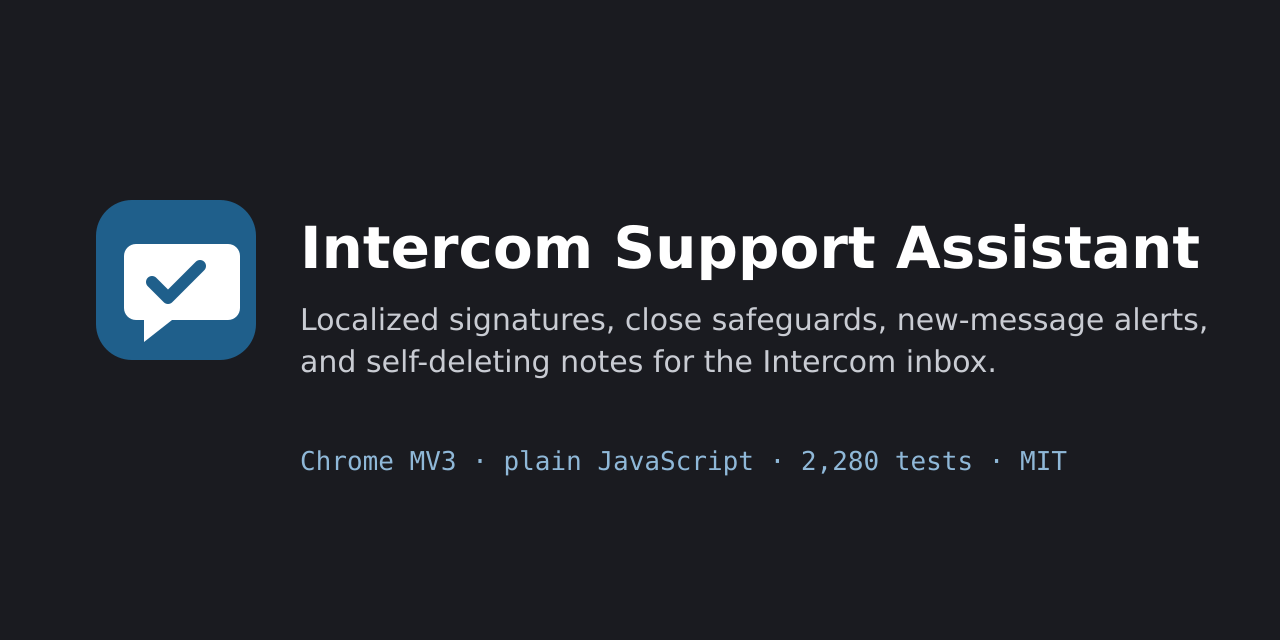
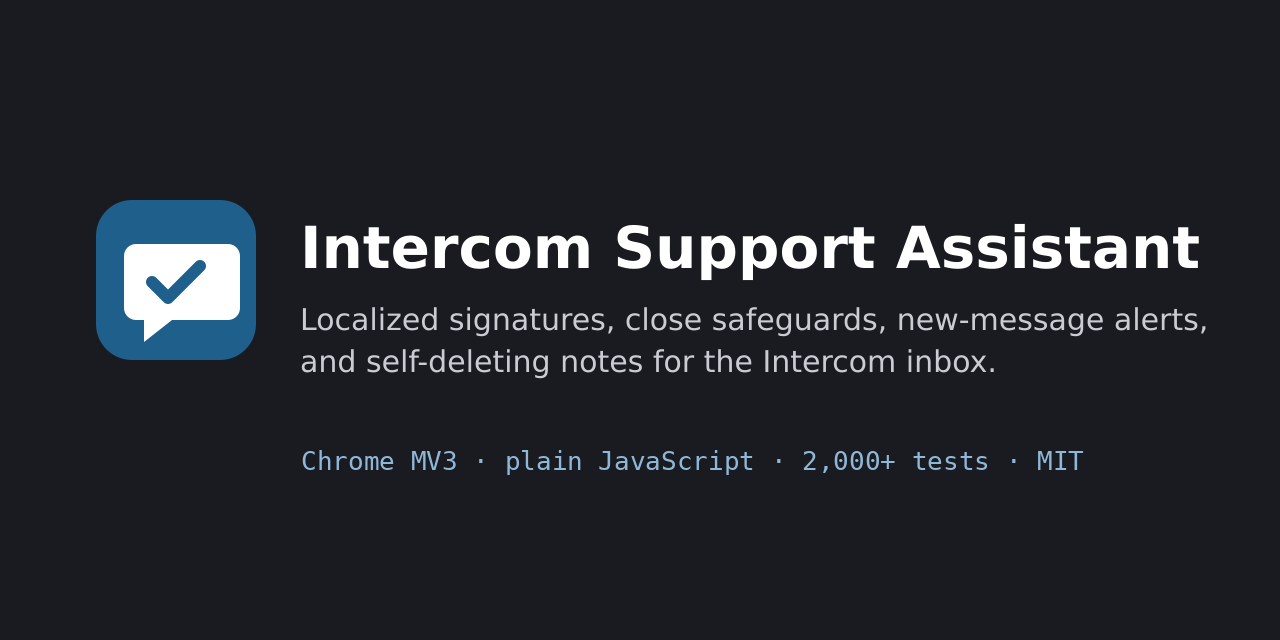
Round the test count to 2,000+

Changed region(s): [[0.625, 0.6875, 0.8438, 0.75], [0.375, 0.6875, 0.5938, 0.75], [0.25, 0.6875, 0.3438, 0.75]]

diff --git a/README.md b/README.md
@@ -14,7 +14,7 @@ and id in it is invented.
 
 ## How it is tested
 
-About 2,280 automated tests in 161 files run in about 15 seconds with
+More than 2,000 automated tests in 160+ files run in about 15 seconds with
 `node --test` and jsdom. They are unit and integration tests; there is no
 end-to-end suite against a live Intercom workspace, because the extension does
 not own one.

diff --git a/docs/testing.md b/docs/testing.md
@@ -2,7 +2,7 @@
 
 ```bash
 npm ci
-npm test          # about 2,280 tests, about 15 s on one laptop
+npm test          # 2,000+ tests, about 15 s on one laptop
 npm run verify    # the full release gate, see RELEASE.md
 ```
 
